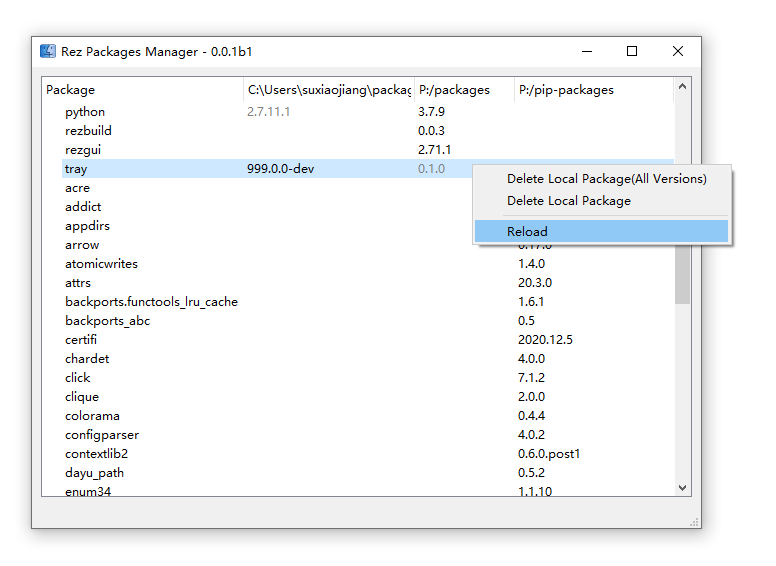
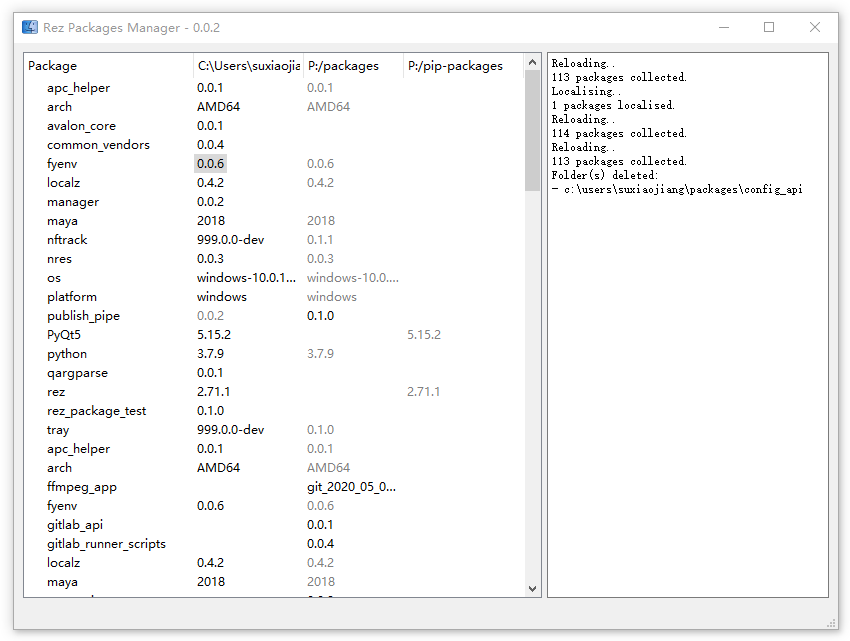
logger pane and exception handling.

diff --git a/src/rez_manager/models.py b/src/rez_manager/models.py
@@ -1,9 +1,12 @@
 import os
+import logging
 
-from Qt import QtGui
+from Qt import QtGui, QtCore
 from rez import packages
 from rez.config import config
 from rez.package_repository import package_repository_manager
+
+from .utils import catch_exception
 
 
 def generate_item_tooltip(item):
@@ -48,52 +51,64 @@ def generate_item_text(item):
     return ''
 
 
-
 class RezPackagesModel(QtGui.QStandardItemModel):
+    cookingStarted = QtCore.Signal()
+    cookingEnded = QtCore.Signal()
+
     def __init__(self, parent=None):
         self.repos = config.get('packages_path')
         super(RezPackagesModel, self).__init__(0, len(self.repos) + 1)
         self.setHorizontalHeaderLabels(['Package'] + self.repos)
 
+        self.logger = logging.getLogger(__name__)
+
+    @catch_exception
+    def _make_row(self, row, family):
+        self.setItem(row, 0, QtGui.QStandardItem(family.name))
+        versions = [None]
+        version_max = None
+
+        # Fill the spreadsheet
+        for irepo, repo in enumerate(self.repos):
+            latest = packages.get_latest_package(family.name, paths=[repo])
+            package_folder = os.path.join(repo, family.name)
+
+            item = QtGui.QStandardItem()
+            item.latest = None
+            item.empty_folder = None
+
+            if not latest:
+                versions.append(None)
+                if os.path.isdir(os.path.join(repo, family.name)):
+                    item.empty_folder = package_folder
+            else:
+                item.latest = latest
+
+                version_max = max(latest.version, version_max) \
+                    if version_max else latest.version
+                versions.append(latest.version or None)
+
+            item.setText(generate_item_text(item))
+
+            item.setToolTip(generate_item_tooltip(item))
+            self.setItem(row, irepo + 1, item)
+
+        # Find the winner
+        winner_found = False
+        for i in range(len(self.repos)):
+            if not winner_found and versions[i + 1] and versions[i + 1] == version_max:
+                winner_found = True
+            else:
+                self.item(row, i + 1).setForeground(QtGui.QColor('gray'))
+
+    @catch_exception
     def reload(self):
+        self.logger.info(f'Reloading..')
         package_repository_manager.clear_caches()
         families = list(packages.iter_package_families())
         self.setRowCount(len(families))
 
-        for row, fam in enumerate(families):
-            self.setItem(row, 0, QtGui.QStandardItem(fam.name))
-            versions = [None]
-            version_max = None
+        for row, family in enumerate(families):
+            self._make_row(row, family)
 
-            # Fill the spreadsheet
-            for irepo, repo in enumerate(self.repos):
-                latest = packages.get_latest_package(fam.name, paths=[repo])
-                package_folder = os.path.join(repo, fam.name)
-
-                item = QtGui.QStandardItem()
-                item.latest = None
-                item.empty_folder = None
-
-                if not latest:
-                    versions.append(None)
-                    if os.path.isdir(os.path.join(repo, fam.name)):
-                        item.empty_folder = package_folder
-                else:
-                    item.latest = latest
-
-                    version_max = max(latest.version, version_max) \
-                        if version_max else latest.version
-                    versions.append(latest.version or None)
-
-                item.setText(generate_item_text(item))
-
-                item.setToolTip(generate_item_tooltip(item))
-                self.setItem(row, irepo + 1, item)
-
-            # Find the winner
-            winner_found = False
-            for i in range(len(self.repos)):
-                if not winner_found and versions[i + 1] and versions[i + 1] == version_max:
-                    winner_found = True
-                else:
-                    self.item(row, i + 1).setForeground(QtGui.QColor('gray'))
+        self.logger.info(f'{len(families)} packages collected.')

diff --git a/src/rez_manager/views.py b/src/rez_manager/views.py
@@ -1,5 +1,6 @@
 import os
 import shutil
+import logging
 from functools import partial
 
 import qtawesome as qta
@@ -7,6 +8,8 @@ from Qt import QtWidgets, QtCore
 from rez import packages
 from rez.config import config
 from rez.package_copy import copy_package
+
+from .utils import catch_exception
 
 
 def get_local_repo_index():
@@ -17,12 +20,17 @@ def get_local_repo_index():
     return -1
 
 
+def format_list(list_of_str):
+    return '\n'.join(' - ' + line for line in list_of_str)
+
+
 def delete_local(packages, all_version: bool):
+    folders_deleted = []
     for package in packages:
         package_dir = os.path.join(package.resource.location, package.name)
 
         if all_version:
-            shutil.rmtree(package_dir)
+            to_delete = package_dir
         else:
             children = os.listdir(package_dir)
 
@@ -33,8 +41,9 @@ def delete_local(packages, all_version: bool):
                 to_delete = package_dir
             else:
                 to_delete = os.path.join(package_dir, str(package.version))
-
-            shutil.rmtree(to_delete)
+        shutil.rmtree(to_delete)
+        folders_deleted.append(to_delete)
+    return folders_deleted
 
 
 class SpreadsheetView(QtWidgets.QTreeView):
@@ -45,6 +54,7 @@ class SpreadsheetView(QtWidgets.QTreeView):
         super(SpreadsheetView, self).__init__(parent)
         self.setSelectionBehavior(self.SelectItems)
         self.setSelectionMode(self.ExtendedSelection)
+        self.logger = logging.getLogger(__name__)
 
     def contextMenuEvent(self, event):
         indexes = self.selectionModel().selectedIndexes()
@@ -143,15 +153,22 @@ class SpreadsheetView(QtWidgets.QTreeView):
         if actions:
             menu.addSeparator()
 
+    @catch_exception
     def on_delete_local(self, packages, all_version):
-        delete_local(packages, all_version)
+        self.logger.info('Deleting..')
+        folders_deleted = delete_local(packages, all_version)
         self.packageDeleted.emit()
+        self.logger.info(f'Folder(s) deleted:\n' + format_list(folders_deleted))
 
+    @catch_exception
     def delete_empty_folder(self, folders):
+        self.logger.info('Deleting..')
         for folder in folders:
             shutil.rmtree(folder)
+        self.logger.info(f'Folder(s) deleted:\n' + format_list(folders))
         self.packageDeleted.emit()
 
+    @catch_exception
     def open_folder(self, index):
         item = self.model().itemFromIndex(index)
         if not item.latest:
@@ -163,8 +180,11 @@ class SpreadsheetView(QtWidgets.QTreeView):
         )
         os.startfile(folder)
 
+    @catch_exception
     def localise(self, packages):
         local_repo = config.get('local_packages_path')
+        self.logger.info('Localising..')
         for package in packages:
             copy_package(package, local_repo, keep_timestamp=True)
+        self.logger.info(f'{len(packages)} packages localised.')
         self.packageLocalised.emit()

diff --git a/src/rez_manager/window.py b/src/rez_manager/window.py
@@ -1,23 +1,43 @@
 import os
+import logging
 from functools import partial
 
 from Qt import QtWidgets, QtGui
 
 from .models import RezPackagesModel
 from .views import SpreadsheetView
+from .textedithandler import TextEditHandler
+
+
+def _setup_logger(textedit):
+    logger = logging.getLogger('rez_manager')
+    log_handler = TextEditHandler(textedit)
+    log_handler.setLevel(logging.DEBUG)
+    logger.addHandler(log_handler)
+    logger.setLevel(logging.DEBUG)
+    return logger
 
 
 class ManagerWin(QtWidgets.QMainWindow):
     """Main window class."""
     def __init__(self):
         super(ManagerWin, self).__init__()
-        self.setup_ui()
+
+        self.setup_window()
+
+        self.splitter = QtWidgets.QSplitter(self.centralWidget())
+        self.centralWidget().layout().addWidget(self.splitter)
 
         self.spreadsheet = self.setup_spreadsheet()
-        self.centralWidget().layout().addWidget(self.spreadsheet)
+        self.splitter.addWidget(self.spreadsheet)
+
+        self.log_widget = QtWidgets.QTextEdit()
+        self.splitter.addWidget(self.log_widget)
+        self.splitter.setSizes([800,400])
+
+        self.logger = _setup_logger(self.log_widget)
 
         self._connect()
-
         self.spreadsheet.model().reload()
 
     def _connect(self):
@@ -31,10 +51,8 @@ class ManagerWin(QtWidgets.QMainWindow):
         self.spreadsheet.packageDeleted.connect(slot_reload)
         self.spreadsheet.packageLocalised.connect(slot_reload)
 
-
-    def setup_ui(self):
+    def setup_window(self):
         """Do the general ui setup work."""
-
         # Layout
         central_widget = QtWidgets.QWidget()
         central_widget.setLayout(QtWidgets.QVBoxLayout())

diff --git a/src/rez_manager/textedithandler.py b/src/rez_manager/textedithandler.py
@@ -1,0 +1,45 @@
+import logging
+import re
+import html
+import bisect
+
+from Qt import QtGui, QtCore
+
+
+def log_color(level, dark_text=True):
+    COLORS = ['gray', 'black', 'magenta', 'red', 'red'] if dark_text \
+        else ['gray', 'white', 'magenta', 'red', 'red']
+    index = bisect.bisect_left(
+        [logging.DEBUG, logging.INFO, logging.WARNING, logging.ERROR],
+        level
+    )
+    return COLORS[index]
+
+
+class TextEditHandler(logging.Handler):
+    """Messages are guaranteed to be appended in main GUI thread."""
+
+    # TODO: avoid dead textedit?
+    HTML_RE = re.compile('<.+>')
+
+    class Sender(QtCore.QObject):
+        """Transition class."""
+        _append = QtCore.Signal(str)
+
+    def __init__(self, textedit, level=logging.DEBUG, dark_text=True):
+        super(TextEditHandler, self).__init__(level)
+        self._textedit = textedit
+        self._sender = TextEditHandler.Sender()
+        self._sender._append.connect(self._textedit.append)
+        self.dark_text = dark_text
+
+    def emit(self, record):
+        msg = self.format(record)
+        is_html = self.HTML_RE.search(msg)
+        if not is_html:
+            msg = html.escape(msg)
+        formatted = u'<span style="color:{}">{}</span>'.format(
+            log_color(record.levelno, dark_text=self.dark_text),
+            msg.replace('\n', '<br>')
+        )
+        self._sender._append.emit(formatted)

diff --git a/src/rez_manager/utils.py b/src/rez_manager/utils.py
@@ -1,0 +1,18 @@
+import traceback
+import logging
+
+
+def catch_exception(fn):
+    """A decorator that catches exceptions and logs them.
+
+    Args:
+        fn (function): The function to catch exceptions.
+    """
+    def _wrapper(*args, **kwargs):
+        try:
+            fn(*args, **kwargs)
+        except Exception:
+            logger = logging.getLogger('rez_manager')
+            logger.exception(f'Exception encountered.')
+
+    return _wrapper

diff --git a/src/rez_manager/__main__.py b/src/rez_manager/__main__.py
@@ -2,12 +2,12 @@ import sys
 
 from Qt import QtWidgets
 
-from .gui import ManagerWin
+from .window import ManagerWin
 
 
 if __name__ == '__main__':
     app = QtWidgets.QApplication(sys.argv)
     win = ManagerWin()
-    win.resize(800, 600)
+    win.resize(1200, 600)
     win.show()
     sys.exit(app.exec_())

diff --git a/package.py b/package.py
@@ -4,7 +4,7 @@ name = 'manager'
 
 authors = ['John Su']
 
-version = '0.0.1b3'
+version = '0.0.2'
 
 uuid = 'johnsu.rez-manager'
 

diff --git a/README.md b/README.md
@@ -12,6 +12,11 @@ A rez util package that can:
 - [x] Open folder of selected package.
 - [ ] Work with rez in separate thread.
 
+# Features
+
+TBD.
+
+# Deployment
 Please note that the deploy scripts is not contained in this repository. I
 suppose it varies from place to place. The simplest way to deploy it is just
 copying the contents to one of your rez repository folder.
